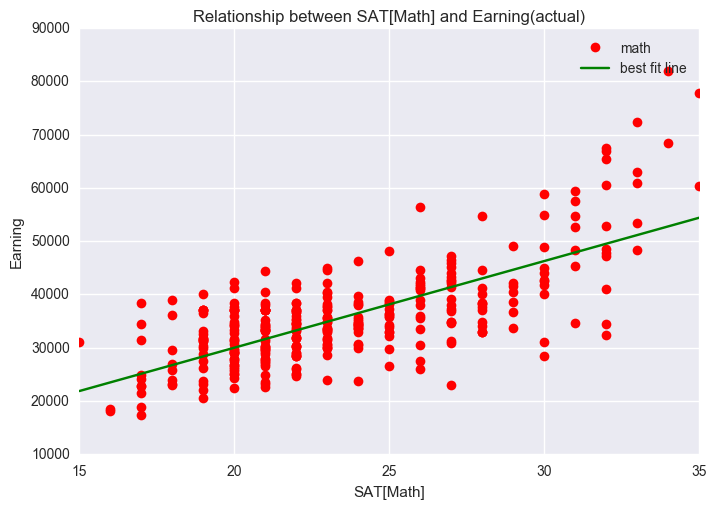
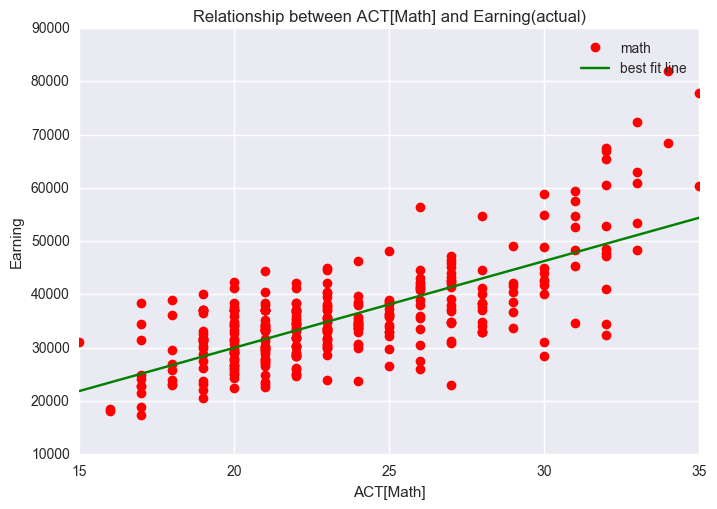
Add files via upload

Changed region(s): [[0.4909, 0.0, 0.8285, 0.0589], [0.4909, 0.943, 0.6137, 1.0]]

diff --git a/README.md b/README.md
@@ -631,7 +631,7 @@ print(dfplt[variable_to_check].describe())
     
 
 Each ACT test is scored out of 36 points, with the lowest possible score of 1.
-Through the plot and looking into the data, there are one occurence where the SAT score for Math is only 1.
+Through the plot and looking into the data, there are one occurence where the ACT score for Math is only 1.
 We decided that this is not an outlier, lowest possible score for an ACT test is 1.
 
 
@@ -988,18 +988,18 @@ This is probably due to most college has the same range of tuition fees like the
 
 
 ```python
-Sat3_6yEarn = df_copy[(df_copy.ACTENMID > 0)  & (df_copy.ACTMTMID > 0) & (df_copy.ACTWRMID > 0) & (df_copy.MD_EARN_WNE_P6 > 0) ]
-acs = Sat3_6yEarn.sort_values(['ACTENMID', 'ACTMTMID', 'ACTWRMID'], ascending = False).head(10)
-des = Sat3_6yEarn.sort_values(['ACTENMID', 'ACTMTMID', 'ACTWRMID'], ascending = True).head(10)
+ACT3_6yEarn = df_copy[(df_copy.ACTENMID > 0)  & (df_copy.ACTMTMID > 0) & (df_copy.ACTWRMID > 0) & (df_copy.MD_EARN_WNE_P6 > 0) ]
+acs = ACT3_6yEarn.sort_values(['ACTENMID', 'ACTMTMID', 'ACTWRMID'], ascending = False).head(10)
+des = ACT3_6yEarn.sort_values(['ACTENMID', 'ACTMTMID', 'ACTWRMID'], ascending = True).head(10)
 top = plt.plot(acs['MD_EARN_WNE_P6'],'ro', label="Top10")
 btn = plt.plot(des['MD_EARN_WNE_P6'],'bo', label="Worst10")  
 
-plt.title("Top10 SAT score compare with Worst10 SAT score(Earning in 6 years)")
+plt.title("Top10 ACT score compare with Worst10 ACT score(Earning in 6 years)")
 plt.legend()
 plt.ylabel('Earning')
 plt.show()
-#red mean the top 10 SAT score in read, writing and english
-#blue mean the least 10 SAT score in read, writing and english
+#red mean the top 10 ACT score in read, writing and english
+#blue mean the least 10 ACT score in read, writing and english
 #clearly we can know that red earn high than blue
 ```
 
@@ -1007,8 +1007,7 @@ plt.show()
 ![png](output_59_0.png)
 
 
-SAT scores might affect the earnings of graduates. Although due to the unsignificant increase, we cant really construct a predictivve model based on it, but it can still be used as a factor in deciding the college that you should enroll.
-We try to plot the comparison between the top 10 SAT score college and the worst 10 SAT score college in term of earning.
+ACT scores might affect the earnings of graduates. We try to plot the comparison between the top 10 ACT score college and the worst 10 ACT score college in term of earning.
 
 ## Does studying in public college earns more than studying in private college?
 
@@ -1056,7 +1055,7 @@ lm = LinearRegression()
 lm.fit(x,linear_data.MD_EARN_WNE_P6)
 
 print ('Estimated intercept', len(lm.coef_))
-a = pd.DataFrame(list(zip(x.columns, lm.coef_)), columns = ['Subject', 'est'])
+a = pd.DataFrame(list(zip(x.columns, lm.coef_)), columns = ['Subject', 'coeficient'])
 print(a)
 #since ACT math is the highest coeficient, hence we plot ACT math
 
@@ -1068,7 +1067,7 @@ plt.show()
 ```
 
     Estimated intercept 3
-        Subject          est
+        Subject   coeficient
     0  ACTENMID -1189.144312
     1  ACTMTMID  2910.042421
     2  ACTWRMID    -3.014084
@@ -1190,8 +1189,8 @@ math = plt.plot(x['ACTMTMID'], linear_data.MD_EARN_WNE_P6, 'ro', label = "math")
 xp = np.linspace(15, 35, 50)
 best_fit = plt.plot(xp, p(xp), '-', color='green', label="best fit line")
 
-plt.title("Relationship between SAT[Math] and Earning(actual)")
-plt.xlabel("SAT[Math]")
+plt.title("Relationship between ACT[Math] and Earning(actual)")
+plt.xlabel("ACT[Math]")
 plt.ylabel("Earning")
 plt.legend()
 plt.show()
@@ -1212,8 +1211,8 @@ plt.plot(x_test['ACTMTMID'], lm.predict(x_test), 'ro')
 xp = np.linspace(15, 35, 50)
 orange = plt.plot(xp, p(xp), '-')
 
-plt.title("Relationship between SAT[Math] and Earning(model)")
-plt.xlabel("SAT[MATH]")
+plt.title("Relationship between ACT[Math] and Earning(model)")
+plt.xlabel("ACT[MATH]")
 plt.ylabel("Earning")
 plt.show()
 ```
